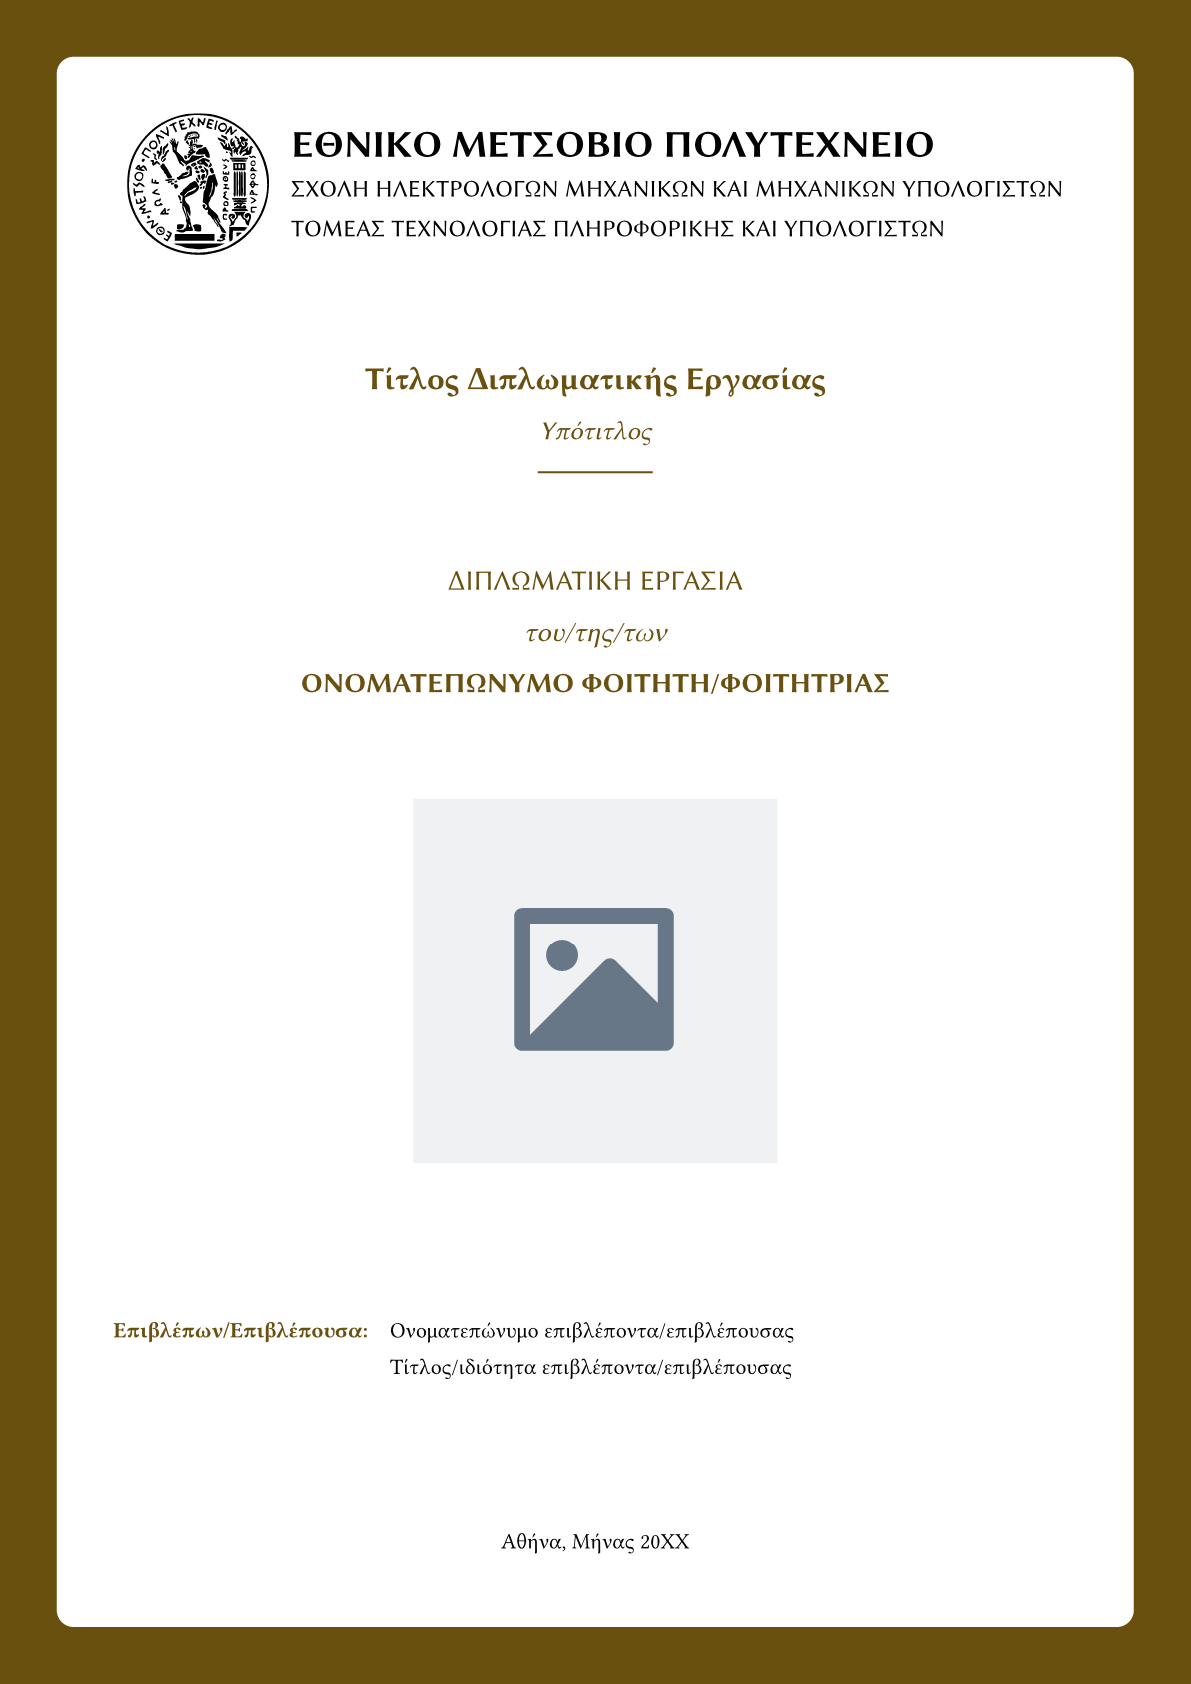
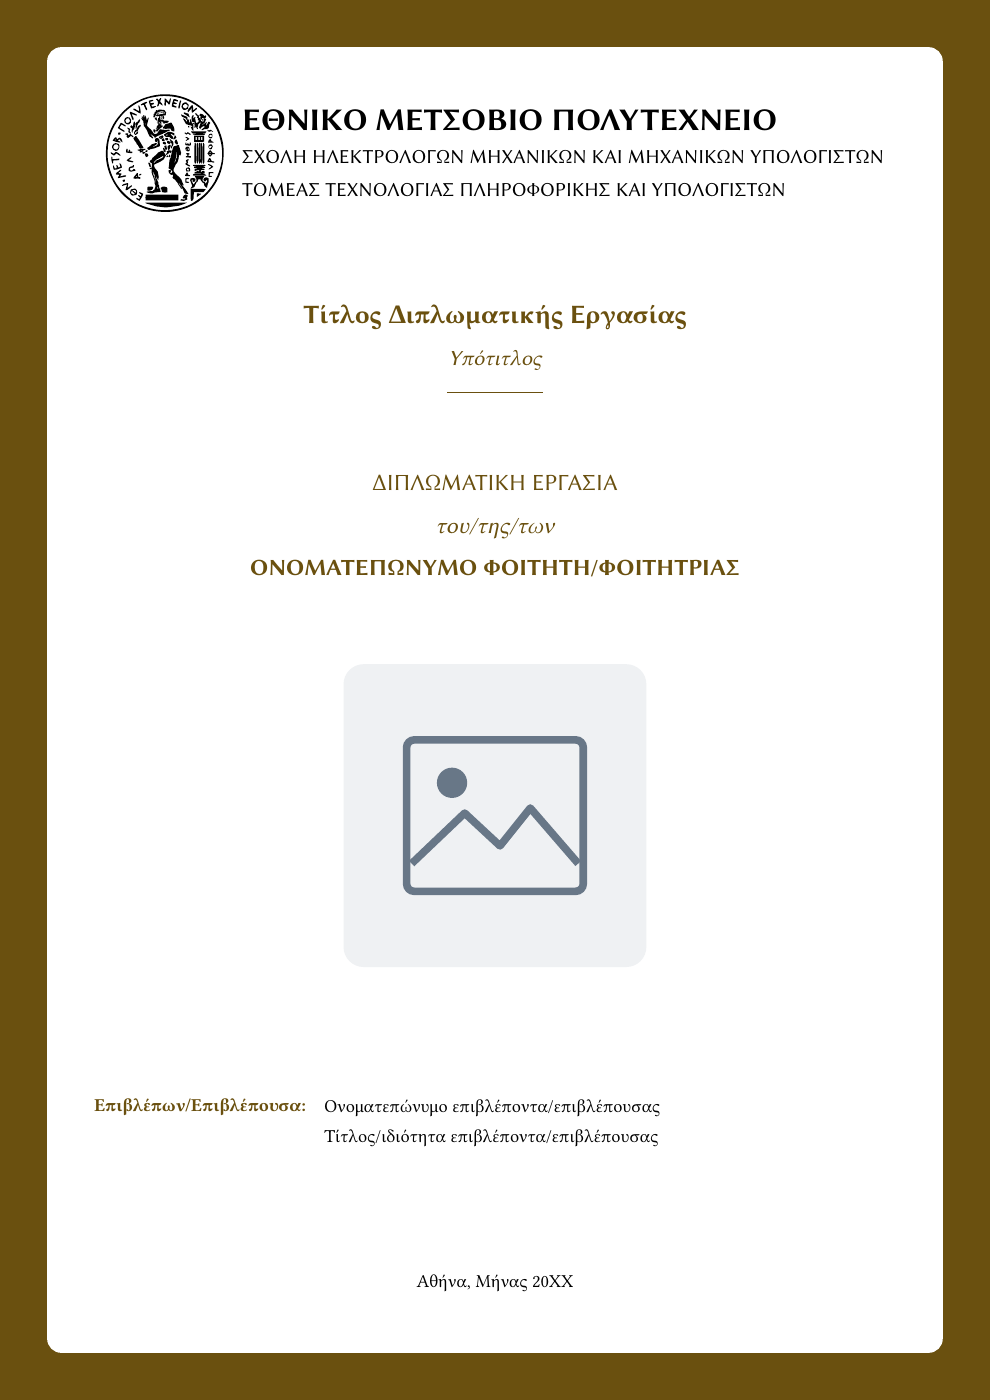
Add template page previews to the README

diff --git a/README.md b/README.md
@@ -5,13 +5,36 @@ Diploma thesis template for the National Technical University of Athens (NTUA / 
 This is an independent template, not an official university template.
 Check the submission requirements of your school before submitting your document.
 
-![Template preview](thumbnail.png)
-
 Supports three output modes:
 
 - **Spiral binding**, a single PDF with the title page and back cover embedded
 - **Paperback binding**, a body-only PDF plus a separate print-ready book cover spread (back cover, spine, front cover) with automatic spine width, bleed, and crop marks
 - **Library submission**, a monochrome PDF without decorative cover elements
+
+## Preview
+
+The images below are rendered from the bundled template with its placeholder
+text. Open an image to view it at full size.
+
+| Decorated cover | Library cover |
+| --- | --- |
+| ![Decorated thesis cover with a gold border and NTUA emblem](thumbnail.png) | ![Monochrome thesis cover for library submission](docs/images/library-cover.png) |
+
+| Examination committee | Table of contents |
+| --- | --- |
+| ![Title page with supervisor and examination committee fields](docs/images/examination-committee.png) | ![Greek table of contents with chapter titles and page numbers](docs/images/contents.png) |
+
+| Chapter opening | Back cover |
+| --- | --- |
+| ![Chapter opening with a numbered heading and drop cap](docs/images/chapter-opening.png) | ![Gold back cover with placeholder summary text](docs/images/back-cover.png) |
+
+The paperback cover includes the back, spine, and front on one print-ready page.
+
+![Paperback cover spread with a spine and crop marks](docs/images/paperback-spread.png)
+
+To regenerate these images after installing the template, run
+`bash scripts/render-previews.sh` from the repository root. This requires Typst
+and Poppler's `pdfinfo` and `pdftoppm` tools.
 
 ## Installation
 
